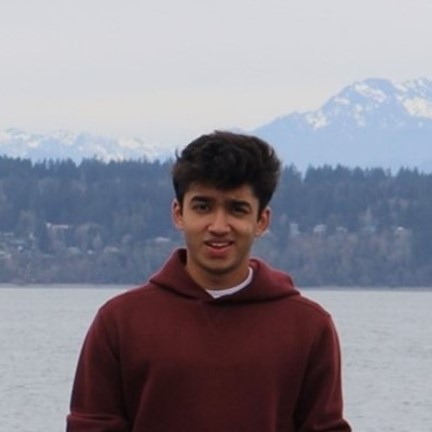
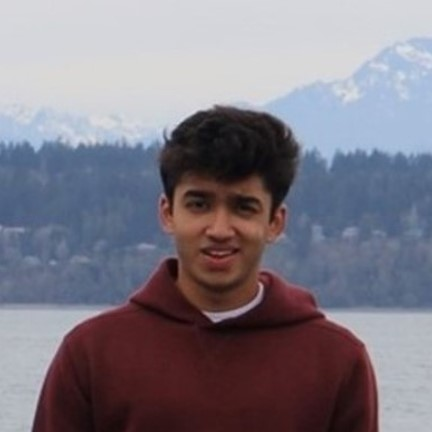
Update bio for dylan

diff --git a/_staffers/dsouza-dylan.md b/_staffers/dsouza-dylan.md
@@ -2,7 +2,7 @@
 name: Dylan Dsouza
 role: Tutor
 pronouns: he/him
-email: dydsouza@ucsd.edu
+email:
 photo: assets/staff-images/dsouza-dylan.jpg
 description: 3rd year, Data Science, Revelle
 hometown: Mumbai, India
